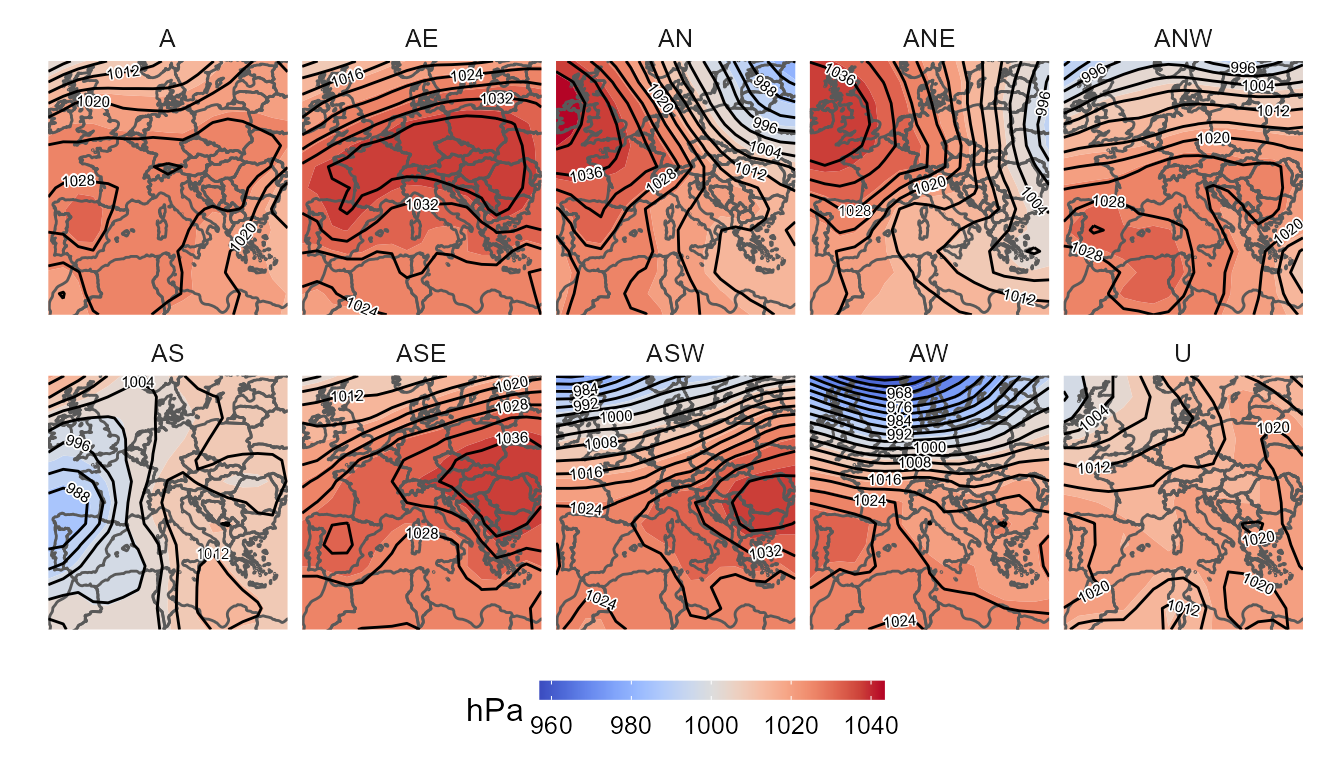
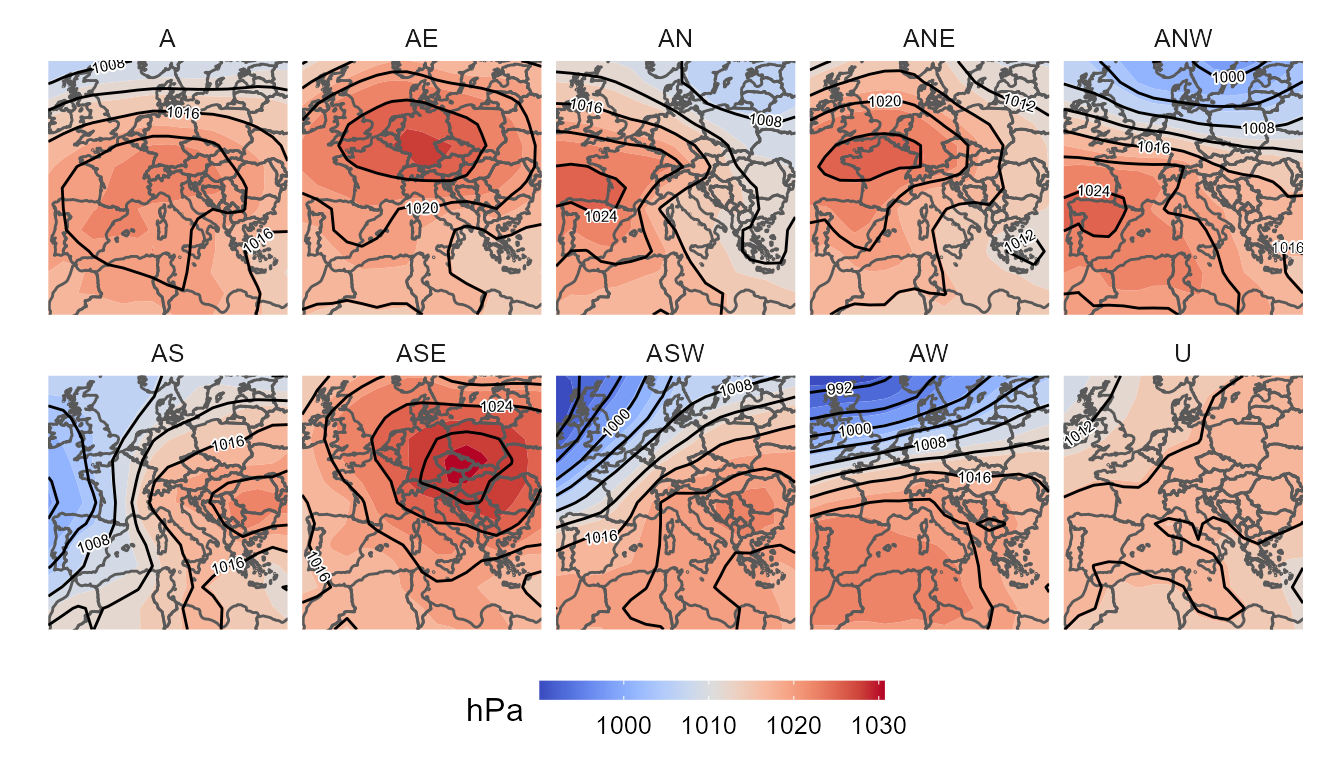
update pkgdown 1.2.1

diff --git a/synoptreg/articles/Lamb.html b/synoptreg/articles/Lamb.html
@@ -31,7 +31,7 @@
       </button>
       <span class="navbar-brand">
         <a class="navbar-link" href="../index.html">synoptReg</a>
-        <span class="version label label-default" data-toggle="tooltip" data-placement="bottom" title="Released version">1.2.0</span>
+        <span class="version label label-default" data-toggle="tooltip" data-placement="bottom" title="Released version">1.2.1</span>
       </span>
     </div>
 
@@ -97,7 +97,7 @@
       <h1 data-toc-skip>Objective Lamb classification</h1>
                         <h4 class="author">Marc Lemus-Canovas</h4>
             
-            <h4 class="date">2021-04-20</h4>
+            <h4 class="date">2021-04-21</h4>
       
       <small class="dont-index">Source: <a href="https://github.com/lemuscanovas/synoptReg/blob/master/vignettes/Lamb.Rmd"><code>vignettes/Lamb.Rmd</code></a></small>
       <div class="hidden name"><code>Lamb.Rmd</code></div>
@@ -160,18 +160,18 @@
 <span class="co">#&gt; </span>
 <span class="co">#&gt; $grid_clas</span>
 <span class="co">#&gt; # A tibble: 5,967 x 4</span>
-<span class="co">#&gt;      lon   lat WT    value</span>
-<span class="co">#&gt;    &lt;dbl&gt; &lt;dbl&gt; &lt;chr&gt; &lt;dbl&gt;</span>
-<span class="co">#&gt;  1   -10    30 A     1020.</span>
-<span class="co">#&gt;  2   -10    30 AE    1022.</span>
-<span class="co">#&gt;  3   -10    30 AN    1023.</span>
-<span class="co">#&gt;  4   -10    30 ANE   1020.</span>
-<span class="co">#&gt;  5   -10    30 ANW   1025.</span>
-<span class="co">#&gt;  6   -10    30 AS    1006.</span>
-<span class="co">#&gt;  7   -10    30 ASE   1025.</span>
-<span class="co">#&gt;  8   -10    30 ASW   1024.</span>
-<span class="co">#&gt;  9   -10    30 AW    1025.</span>
-<span class="co">#&gt; 10   -10    30 C     1025.</span>
+<span class="co">#&gt;      lon   lat WT    mean_WT_value</span>
+<span class="co">#&gt;    &lt;dbl&gt; &lt;dbl&gt; &lt;chr&gt;         &lt;dbl&gt;</span>
+<span class="co">#&gt;  1   -10    30 A             1018.</span>
+<span class="co">#&gt;  2   -10    30 AE            1016.</span>
+<span class="co">#&gt;  3   -10    30 AN            1018.</span>
+<span class="co">#&gt;  4   -10    30 ANE           1017.</span>
+<span class="co">#&gt;  5   -10    30 ANW           1019.</span>
+<span class="co">#&gt;  6   -10    30 AS            1012.</span>
+<span class="co">#&gt;  7   -10    30 ASE           1017.</span>
+<span class="co">#&gt;  8   -10    30 ASW           1020.</span>
+<span class="co">#&gt;  9   -10    30 AW            1021.</span>
+<span class="co">#&gt; 10   -10    30 C             1017.</span>
 <span class="co">#&gt; # ... with 5,957 more rows</span></code></pre></div>
 <p>Plot the synoptic maps is quite easy using ggplot2:</p>
 <div class="sourceCode" id="cb3"><pre class="downlit sourceCode r">
@@ -185,13 +185,13 @@
 
 <span class="fu"><a href="https://ggplot2.tidyverse.org/reference/ggplot.html">ggplot</a></span><span class="op">(</span><span class="op">)</span><span class="op">+</span>
   <span class="fu"><a href="https://rdrr.io/pkg/metR/man/geom_contour_fill.html">geom_contour_fill</a></span><span class="op">(</span><span class="fu"><a href="https://dplyr.tidyverse.org/reference/filter.html">filter</a></span><span class="op">(</span><span class="va">clas</span><span class="op">$</span><span class="va">grid_clas</span>, <span class="fu">str_detect</span><span class="op">(</span><span class="va">WT</span>, <span class="st">'A|U'</span><span class="op">)</span><span class="op">)</span>, 
-              mapping <span class="op">=</span> <span class="fu"><a href="https://ggplot2.tidyverse.org/reference/aes.html">aes</a></span><span class="op">(</span><span class="va">lon</span>,<span class="va">lat</span>,z <span class="op">=</span> <span class="va">value</span><span class="op">)</span>,bins <span class="op">=</span> <span class="fl">15</span><span class="op">)</span><span class="op">+</span>
+              mapping <span class="op">=</span> <span class="fu"><a href="https://ggplot2.tidyverse.org/reference/aes.html">aes</a></span><span class="op">(</span><span class="va">lon</span>,<span class="va">lat</span>,z <span class="op">=</span> <span class="va">mean_WT_value</span><span class="op">)</span>,bins <span class="op">=</span> <span class="fl">15</span><span class="op">)</span><span class="op">+</span>
   <span class="fu"><a href="https://ggplot2.tidyverse.org/reference/ggsf.html">geom_sf</a></span><span class="op">(</span>data <span class="op">=</span> <span class="va">borders</span>, fill <span class="op">=</span> <span class="st">"transparent"</span><span class="op">)</span><span class="op">+</span>
   <span class="fu"><a href="https://rdrr.io/pkg/metR/man/geom_contour2.html">geom_contour2</a></span><span class="op">(</span><span class="fu"><a href="https://dplyr.tidyverse.org/reference/filter.html">filter</a></span><span class="op">(</span><span class="va">clas</span><span class="op">$</span><span class="va">grid_clas</span>, <span class="fu">str_detect</span><span class="op">(</span><span class="va">WT</span>, <span class="st">'A|U'</span><span class="op">)</span><span class="op">)</span>, 
-                mapping <span class="op">=</span> <span class="fu"><a href="https://ggplot2.tidyverse.org/reference/aes.html">aes</a></span><span class="op">(</span><span class="va">lon</span>,<span class="va">lat</span>,z <span class="op">=</span> <span class="va">value</span><span class="op">)</span>, 
+                mapping <span class="op">=</span> <span class="fu"><a href="https://ggplot2.tidyverse.org/reference/aes.html">aes</a></span><span class="op">(</span><span class="va">lon</span>,<span class="va">lat</span>,z <span class="op">=</span> <span class="va">mean_WT_value</span><span class="op">)</span>, 
                 binwidth <span class="op">=</span> <span class="fl">4</span>, color <span class="op">=</span> <span class="st">"black"</span><span class="op">)</span> <span class="op">+</span>
   <span class="fu"><a href="https://rdrr.io/pkg/metR/man/geom_text_contour.html">geom_text_contour</a></span><span class="op">(</span><span class="fu"><a href="https://dplyr.tidyverse.org/reference/filter.html">filter</a></span><span class="op">(</span><span class="va">clas</span><span class="op">$</span><span class="va">grid_clas</span>, <span class="fu">str_detect</span><span class="op">(</span><span class="va">WT</span>, <span class="st">'A|U'</span><span class="op">)</span><span class="op">)</span>, 
-                    mapping <span class="op">=</span> <span class="fu"><a href="https://ggplot2.tidyverse.org/reference/aes.html">aes</a></span><span class="op">(</span><span class="va">lon</span>,<span class="va">lat</span>,z <span class="op">=</span> <span class="va">value</span><span class="op">)</span>, 
+                    mapping <span class="op">=</span> <span class="fu"><a href="https://ggplot2.tidyverse.org/reference/aes.html">aes</a></span><span class="op">(</span><span class="va">lon</span>,<span class="va">lat</span>,z <span class="op">=</span> <span class="va">mean_WT_value</span><span class="op">)</span>, 
                     stroke <span class="op">=</span> <span class="fl">0.15</span>,binwidth <span class="op">=</span> <span class="fl">4</span>, size <span class="op">=</span> <span class="fl">2</span>, check_overlap <span class="op">=</span> <span class="cn">T</span><span class="op">)</span> <span class="op">+</span>
   <span class="fu"><a href="https://ggplot2.tidyverse.org/reference/guides.html">guides</a></span><span class="op">(</span>fill <span class="op">=</span> <span class="fu"><a href="https://ggplot2.tidyverse.org/reference/guide_colourbar.html">guide_colourbar</a></span><span class="op">(</span>barwidth <span class="op">=</span> <span class="fl">9</span>, barheight <span class="op">=</span> <span class="fl">0.5</span><span class="op">)</span><span class="op">)</span><span class="op">+</span>
   <span class="fu"><a href="https://ggplot2.tidyverse.org/reference/facet_wrap.html">facet_wrap</a></span><span class="op">(</span><span class="op">~</span><span class="va">WT</span>, ncol <span class="op">=</span> <span class="fl">5</span><span class="op">)</span> <span class="op">+</span>

diff --git a/synoptreg/reference/lamb_clas.html b/synoptreg/reference/lamb_clas.html
@@ -76,7 +76,7 @@
       </button>
       <span class="navbar-brand">
         <a class="navbar-link" href="../index.html">synoptReg</a>
-        <span class="version label label-default" data-toggle="tooltip" data-placement="bottom" title="Released version">1.2.0</span>
+        <span class="version label label-default" data-toggle="tooltip" data-placement="bottom" title="Released version">1.2.1</span>
       </span>
     </div>
 
@@ -221,18 +221,18 @@ Int. J. Climatol. 20: 1559-1581.</p>
 #&gt; 
 #&gt; $grid_clas
 #&gt; </span><span style='color: #949494;'># A tibble: 5,746 x 4</span><span>
-#&gt;      lon   lat WT      value
-#&gt;    </span><span style='color: #949494;font-style: italic;'>&lt;dbl&gt;</span><span> </span><span style='color: #949494;font-style: italic;'>&lt;dbl&gt;</span><span> </span><span style='color: #949494;font-style: italic;'>&lt;chr&gt;</span><span>   </span><span style='color: #949494;font-style: italic;'>&lt;dbl&gt;</span><span>
-#&gt; </span><span style='color: #BCBCBC;'> 1</span><span>   -</span><span style='color: #BB0000;'>10</span><span>    30 A     </span><span style='text-decoration: underline;'>102</span><span>048.
-#&gt; </span><span style='color: #BCBCBC;'> 2</span><span>   -</span><span style='color: #BB0000;'>10</span><span>    30 AE    </span><span style='text-decoration: underline;'>100</span><span>862.
-#&gt; </span><span style='color: #BCBCBC;'> 3</span><span>   -</span><span style='color: #BB0000;'>10</span><span>    30 AN    </span><span style='text-decoration: underline;'>102</span><span>502.
-#&gt; </span><span style='color: #BCBCBC;'> 4</span><span>   -</span><span style='color: #BB0000;'>10</span><span>    30 ANE   </span><span style='text-decoration: underline;'>102</span><span>412.
-#&gt; </span><span style='color: #BCBCBC;'> 5</span><span>   -</span><span style='color: #BB0000;'>10</span><span>    30 ANW   </span><span style='text-decoration: underline;'>102</span><span>522.
-#&gt; </span><span style='color: #BCBCBC;'> 6</span><span>   -</span><span style='color: #BB0000;'>10</span><span>    30 AS    </span><span style='text-decoration: underline;'>101</span><span>758.
-#&gt; </span><span style='color: #BCBCBC;'> 7</span><span>   -</span><span style='color: #BB0000;'>10</span><span>    30 ASE   </span><span style='text-decoration: underline;'>101</span><span>348.
-#&gt; </span><span style='color: #BCBCBC;'> 8</span><span>   -</span><span style='color: #BB0000;'>10</span><span>    30 ASW   </span><span style='text-decoration: underline;'>101</span><span>845 
-#&gt; </span><span style='color: #BCBCBC;'> 9</span><span>   -</span><span style='color: #BB0000;'>10</span><span>    30 AW    </span><span style='text-decoration: underline;'>101</span><span>025 
-#&gt; </span><span style='color: #BCBCBC;'>10</span><span>   -</span><span style='color: #BB0000;'>10</span><span>    30 C     </span><span style='text-decoration: underline;'>102</span><span>460 
+#&gt;      lon   lat WT    mean_WT_value
+#&gt;    </span><span style='color: #949494;font-style: italic;'>&lt;dbl&gt;</span><span> </span><span style='color: #949494;font-style: italic;'>&lt;dbl&gt;</span><span> </span><span style='color: #949494;font-style: italic;'>&lt;chr&gt;</span><span>         </span><span style='color: #949494;font-style: italic;'>&lt;dbl&gt;</span><span>
+#&gt; </span><span style='color: #BCBCBC;'> 1</span><span>   -</span><span style='color: #BB0000;'>10</span><span>    30 A           </span><span style='text-decoration: underline;'>101</span><span>768.
+#&gt; </span><span style='color: #BCBCBC;'> 2</span><span>   -</span><span style='color: #BB0000;'>10</span><span>    30 AE          </span><span style='text-decoration: underline;'>101</span><span>531.
+#&gt; </span><span style='color: #BCBCBC;'> 3</span><span>   -</span><span style='color: #BB0000;'>10</span><span>    30 AN          </span><span style='text-decoration: underline;'>101</span><span>662.
+#&gt; </span><span style='color: #BCBCBC;'> 4</span><span>   -</span><span style='color: #BB0000;'>10</span><span>    30 ANE         </span><span style='text-decoration: underline;'>101</span><span>533.
+#&gt; </span><span style='color: #BCBCBC;'> 5</span><span>   -</span><span style='color: #BB0000;'>10</span><span>    30 ANW         </span><span style='text-decoration: underline;'>101</span><span>981.
+#&gt; </span><span style='color: #BCBCBC;'> 6</span><span>   -</span><span style='color: #BB0000;'>10</span><span>    30 AS          </span><span style='text-decoration: underline;'>101</span><span>696.
+#&gt; </span><span style='color: #BCBCBC;'> 7</span><span>   -</span><span style='color: #BB0000;'>10</span><span>    30 ASE         </span><span style='text-decoration: underline;'>101</span><span>638.
+#&gt; </span><span style='color: #BCBCBC;'> 8</span><span>   -</span><span style='color: #BB0000;'>10</span><span>    30 ASW         </span><span style='text-decoration: underline;'>101</span><span>891.
+#&gt; </span><span style='color: #BCBCBC;'> 9</span><span>   -</span><span style='color: #BB0000;'>10</span><span>    30 AW          </span><span style='text-decoration: underline;'>101</span><span>866.
+#&gt; </span><span style='color: #BCBCBC;'>10</span><span>   -</span><span style='color: #BB0000;'>10</span><span>    30 C           </span><span style='text-decoration: underline;'>101</span><span>634.
 #&gt; </span><span style='color: #949494;'># ... with 5,736 more rows</span><span>
 #&gt; </div><div class='input'>
 </div></span></pre>

diff --git a/synoptreg/articles/circulation-to-environment.html b/synoptreg/articles/circulation-to-environment.html
@@ -31,7 +31,7 @@
       </button>
       <span class="navbar-brand">
         <a class="navbar-link" href="../index.html">synoptReg</a>
-        <span class="version label label-default" data-toggle="tooltip" data-placement="bottom" title="Released version">1.2.0</span>
+        <span class="version label label-default" data-toggle="tooltip" data-placement="bottom" title="Released version">1.2.1</span>
       </span>
     </div>
 
@@ -97,7 +97,7 @@
       <h1 data-toc-skip>Circulation-To-Environment</h1>
                         <h4 class="author">Marc Lemus-Canovas</h4>
             
-            <h4 class="date">2021-04-20</h4>
+            <h4 class="date">2021-04-21</h4>
       
       <small class="dont-index">Source: <a href="https://github.com/lemuscanovas/synoptReg/blob/master/vignettes/circulation-to-environment.Rmd"><code>vignettes/circulation-to-environment.Rmd</code></a></small>
       <div class="hidden name"><code>circulation-to-environment.Rmd</code></div>
@@ -213,6 +213,9 @@
     <span class="fu"><a href="https://rdrr.io/pkg/metR/man/geom_contour_fill.html">geom_contour_fill</a></span><span class="op">(</span><span class="fu"><a href="https://dplyr.tidyverse.org/reference/filter.html">filter</a></span><span class="op">(</span><span class="va">cl</span><span class="op">$</span><span class="va">grid_clas</span>, <span class="va">var</span> <span class="op">==</span> <span class="st">"z500"</span><span class="op">)</span>, 
               mapping <span class="op">=</span> <span class="fu"><a href="https://ggplot2.tidyverse.org/reference/aes.html">aes</a></span><span class="op">(</span><span class="va">lon</span>,<span class="va">lat</span>,z <span class="op">=</span> <span class="va">mean_WT_anom_value</span><span class="op">)</span>,
               binwidth <span class="op">=</span> <span class="fl">20</span><span class="op">)</span><span class="op">+</span>
+    <span class="fu"><a href="https://rdrr.io/pkg/metR/man/stat_subset.html">stat_subset</a></span><span class="op">(</span>data <span class="op">=</span> <span class="fu"><a href="https://dplyr.tidyverse.org/reference/filter.html">filter</a></span><span class="op">(</span><span class="va">cl</span><span class="op">$</span><span class="va">grid_clas</span>,<span class="va">var</span> <span class="op">==</span> <span class="st">"z500"</span><span class="op">)</span>,
+              <span class="fu"><a href="https://ggplot2.tidyverse.org/reference/aes.html">aes</a></span><span class="op">(</span><span class="va">lon</span>,<span class="va">lat</span>, subset <span class="op">=</span> <span class="va">var</span> <span class="op">==</span> <span class="st">"z500"</span> <span class="op">&amp;</span> <span class="va">pval_ttest</span>  <span class="op">&lt;</span><span class="fl">0.01</span><span class="op">)</span>, <span class="co"># skip = 1</span>
+              size <span class="op">=</span> <span class="fl">0.2</span><span class="op">)</span><span class="op">+</span>
     <span class="fu"><a href="https://ggplot2.tidyverse.org/reference/ggsf.html">geom_sf</a></span><span class="op">(</span>data <span class="op">=</span> <span class="va">borders</span>, fill <span class="op">=</span> <span class="st">"transparent"</span><span class="op">)</span><span class="op">+</span>
     <span class="fu"><a href="https://rdrr.io/pkg/metR/man/geom_contour2.html">geom_contour2</a></span><span class="op">(</span>data <span class="op">=</span> <span class="fu"><a href="https://dplyr.tidyverse.org/reference/filter.html">filter</a></span><span class="op">(</span><span class="va">cl</span><span class="op">$</span><span class="va">grid_clas</span>,<span class="va">var</span> <span class="op">==</span> <span class="st">"mslp"</span><span class="op">)</span>,
                   <span class="fu"><a href="https://ggplot2.tidyverse.org/reference/aes.html">aes</a></span><span class="op">(</span>x<span class="op">=</span><span class="va">lon</span>,y<span class="op">=</span><span class="va">lat</span>,z<span class="op">=</span><span class="va">mean_WT_value</span><span class="op">/</span><span class="fl">100</span><span class="op">)</span>,

diff --git a/synoptreg/reference/som_clas.html b/synoptreg/reference/som_clas.html
@@ -6,7 +6,7 @@
 <meta http-equiv="X-UA-Compatible" content="IE=edge">
 <meta name="viewport" content="width=device-width, initial-scale=1.0">
 
-<title>Self-Organized Map classification — som_clas • synoptReg</title>
+<title>Self-Organizing Maps classification — som_clas • synoptReg</title>
 
 
 <!-- jquery -->
@@ -39,7 +39,7 @@
 
 
 
-<meta property="og:title" content="Self-Organized Map classification — som_clas" />
+<meta property="og:title" content="Self-Organizing Maps classification — som_clas" />
 <meta property="og:description" content="som_clas allows to perform a SOM synoptic classification" />
 
 
@@ -72,7 +72,7 @@
       </button>
       <span class="navbar-brand">
         <a class="navbar-link" href="../index.html">synoptReg</a>
-        <span class="version label label-default" data-toggle="tooltip" data-placement="bottom" title="Released version">1.2.0</span>
+        <span class="version label label-default" data-toggle="tooltip" data-placement="bottom" title="Released version">1.2.1</span>
       </span>
     </div>
 
@@ -135,7 +135,7 @@
 <div class="row">
   <div class="col-md-9 contents">
     <div class="page-header">
-    <h1>Self-Organized Map classification</h1>
+    <h1>Self-Organizing Maps classification</h1>
     <small class="dont-index">Source: <a href='https://github.com/lemuscanovas/synoptReg/blob/master/R/som_clas.R'><code>R/som_clas.R</code></a></small>
     <div class="hidden name"><code>som_clas.Rd</code></div>
     </div>
@@ -222,7 +222,7 @@ Journal of Statistical Software, 21(5), 1 - 19.</p>
              name_vars <span class='op'>=</span> <span class='fu'><a href='https://rdrr.io/r/base/c.html'>c</a></span><span class='op'>(</span><span class='st'>"z500"</span><span class='op'>)</span><span class='op'>)</span>
 
 <span class='co'># SOM classification</span>
-<span class='va'>som_cl</span> <span class='op'>&lt;-</span> <span class='fu'>som_clas</span><span class='op'>(</span><span class='va'>z500_tidy</span>, xdim <span class='op'>=</span> <span class='fl'>4</span>,ydim <span class='op'>=</span> <span class='fl'>4</span><span class='op'>)</span>
+<span class='va'>som_cl</span> <span class='op'>&lt;-</span> <span class='fu'>som_clas</span><span class='op'>(</span><span class='va'>z500_tidy</span>, xdim <span class='op'>=</span> <span class='fl'>4</span>, ydim <span class='op'>=</span> <span class='fl'>4</span>, iter <span class='op'>=</span> <span class='fl'>200</span><span class='op'>)</span>
 
 
 </div></pre>

diff --git a/synoptreg/index.html b/synoptreg/index.html
@@ -31,7 +31,7 @@
       </button>
       <span class="navbar-brand">
         <a class="navbar-link" href="index.html">synoptReg</a>
-        <span class="version label label-default" data-toggle="tooltip" data-placement="bottom" title="Released version">1.2.0</span>
+        <span class="version label label-default" data-toggle="tooltip" data-placement="bottom" title="Released version">1.2.1</span>
       </span>
     </div>
 
@@ -147,7 +147,7 @@
 <h3 class="hasAnchor">
 <a href="#installation" class="anchor"></a>Installation</h3>
 <div class="sourceCode" id="cb1"><pre class="downlit sourceCode r">
-<code class="sourceCode R"><span class="co"># To install the CRAN version (1.2.0):</span>
+<code class="sourceCode R"><span class="co"># To install the CRAN version (1.2.1):</span>
 <span class="fu"><a href="https://rdrr.io/r/utils/install.packages.html">install.packages</a></span><span class="op">(</span><span class="st">"synoptReg"</span><span class="op">)</span>
 
 <span class="co"># To install the latest version from Github:</span>

diff --git a/synoptreg/articles/classification_metrics.html b/synoptreg/articles/classification_metrics.html
@@ -31,7 +31,7 @@
       </button>
       <span class="navbar-brand">
         <a class="navbar-link" href="../index.html">synoptReg</a>
-        <span class="version label label-default" data-toggle="tooltip" data-placement="bottom" title="Released version">1.2.0</span>
+        <span class="version label label-default" data-toggle="tooltip" data-placement="bottom" title="Released version">1.2.1</span>
       </span>
     </div>
 
@@ -97,7 +97,7 @@
       <h1 data-toc-skip>Extracting metrics from the synoptic classification</h1>
                         <h4 class="author">Marc Lemus-Canovas</h4>
             
-            <h4 class="date">2021-04-20</h4>
+            <h4 class="date">2021-04-21</h4>
       
       <small class="dont-index">Source: <a href="https://github.com/lemuscanovas/synoptReg/blob/master/vignettes/classification_metrics.Rmd"><code>vignettes/classification_metrics.Rmd</code></a></small>
       <div class="hidden name"><code>classification_metrics.Rmd</code></div>

diff --git a/synoptreg/articles/environment-to-circulation.html b/synoptreg/articles/environment-to-circulation.html
@@ -31,7 +31,7 @@
       </button>
       <span class="navbar-brand">
         <a class="navbar-link" href="../index.html">synoptReg</a>
-        <span class="version label label-default" data-toggle="tooltip" data-placement="bottom" title="Released version">1.2.0</span>
+        <span class="version label label-default" data-toggle="tooltip" data-placement="bottom" title="Released version">1.2.1</span>
       </span>
     </div>
 
@@ -97,7 +97,7 @@
       <h1 data-toc-skip>Environment-To-Circulation</h1>
                         <h4 class="author">Marc Lemus-Canovas</h4>
             
-            <h4 class="date">2021-04-20</h4>
+            <h4 class="date">2021-04-21</h4>
       
       <small class="dont-index">Source: <a href="https://github.com/lemuscanovas/synoptReg/blob/master/vignettes/environment-to-circulation.Rmd"><code>vignettes/environment-to-circulation.Rmd</code></a></small>
       <div class="hidden name"><code>environment-to-circulation.Rmd</code></div>

diff --git a/synoptreg/articles/SOM.html b/synoptreg/articles/SOM.html
@@ -31,7 +31,7 @@
       </button>
       <span class="navbar-brand">
         <a class="navbar-link" href="../index.html">synoptReg</a>
-        <span class="version label label-default" data-toggle="tooltip" data-placement="bottom" title="Released version">1.2.0</span>
+        <span class="version label label-default" data-toggle="tooltip" data-placement="bottom" title="Released version">1.2.1</span>
       </span>
     </div>
 
@@ -97,7 +97,7 @@
       <h1 data-toc-skip>Self-Organizing Maps</h1>
                         <h4 class="author">Marc Lemus-Canovas</h4>
             
-            <h4 class="date">2021-04-20</h4>
+            <h4 class="date">2021-04-21</h4>
       
       <small class="dont-index">Source: <a href="https://github.com/lemuscanovas/synoptReg/blob/master/vignettes/SOM.Rmd"><code>vignettes/SOM.Rmd</code></a></small>
       <div class="hidden name"><code>SOM.Rmd</code></div>

diff --git a/synoptreg/reference/index.html b/synoptreg/reference/index.html
@@ -71,7 +71,7 @@
       </button>
       <span class="navbar-brand">
         <a class="navbar-link" href="../index.html">synoptReg</a>
-        <span class="version label label-default" data-toggle="tooltip" data-placement="bottom" title="Released version">1.2.0</span>
+        <span class="version label label-default" data-toggle="tooltip" data-placement="bottom" title="Released version">1.2.1</span>
       </span>
     </div>
 
@@ -222,7 +222,7 @@
         <td>
           <p><code><a href="som_clas.html">som_clas()</a></code> </p>
         </td>
-        <td><p>Self-Organized Map classification</p></td>
+        <td><p>Self-Organizing Maps classification</p></td>
       </tr><tr>
         
         <td>

diff --git a/synoptreg/reference/pcp.html b/synoptreg/reference/pcp.html
@@ -74,7 +74,7 @@ This data corresponds to daily values of precipitation with a spatial resolution
       </button>
       <span class="navbar-brand">
         <a class="navbar-link" href="../index.html">synoptReg</a>
-        <span class="version label label-default" data-toggle="tooltip" data-placement="bottom" title="Released version">1.2.0</span>
+        <span class="version label label-default" data-toggle="tooltip" data-placement="bottom" title="Released version">1.2.1</span>
       </span>
     </div>
 

diff --git a/synoptreg/reference/tidy_nc.html b/synoptreg/reference/tidy_nc.html
@@ -75,7 +75,7 @@ It is mandatory to pass the tidy_nc even if you do not want to change the time p
       </button>
       <span class="navbar-brand">
         <a class="navbar-link" href="../index.html">synoptReg</a>
-        <span class="version label label-default" data-toggle="tooltip" data-placement="bottom" title="Released version">1.2.0</span>
+        <span class="version label label-default" data-toggle="tooltip" data-placement="bottom" title="Released version">1.2.1</span>
       </span>
     </div>
 
